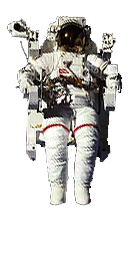
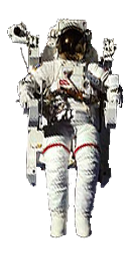
Arreglo imagen del astronauta

diff --git a/TP1.html b/TP1.html
@@ -232,7 +232,9 @@
 
           vec3 light;
           vec4 textureColor = texture2D(uSampler, vec2(vTextureCoord.s, vTextureCoord.t));
-
+          if (textureColor.a < 0.5){
+            discard;
+          }
           if (!uUseLighting){
 
               light = vec3(1.0, 1.0, 1.0);
